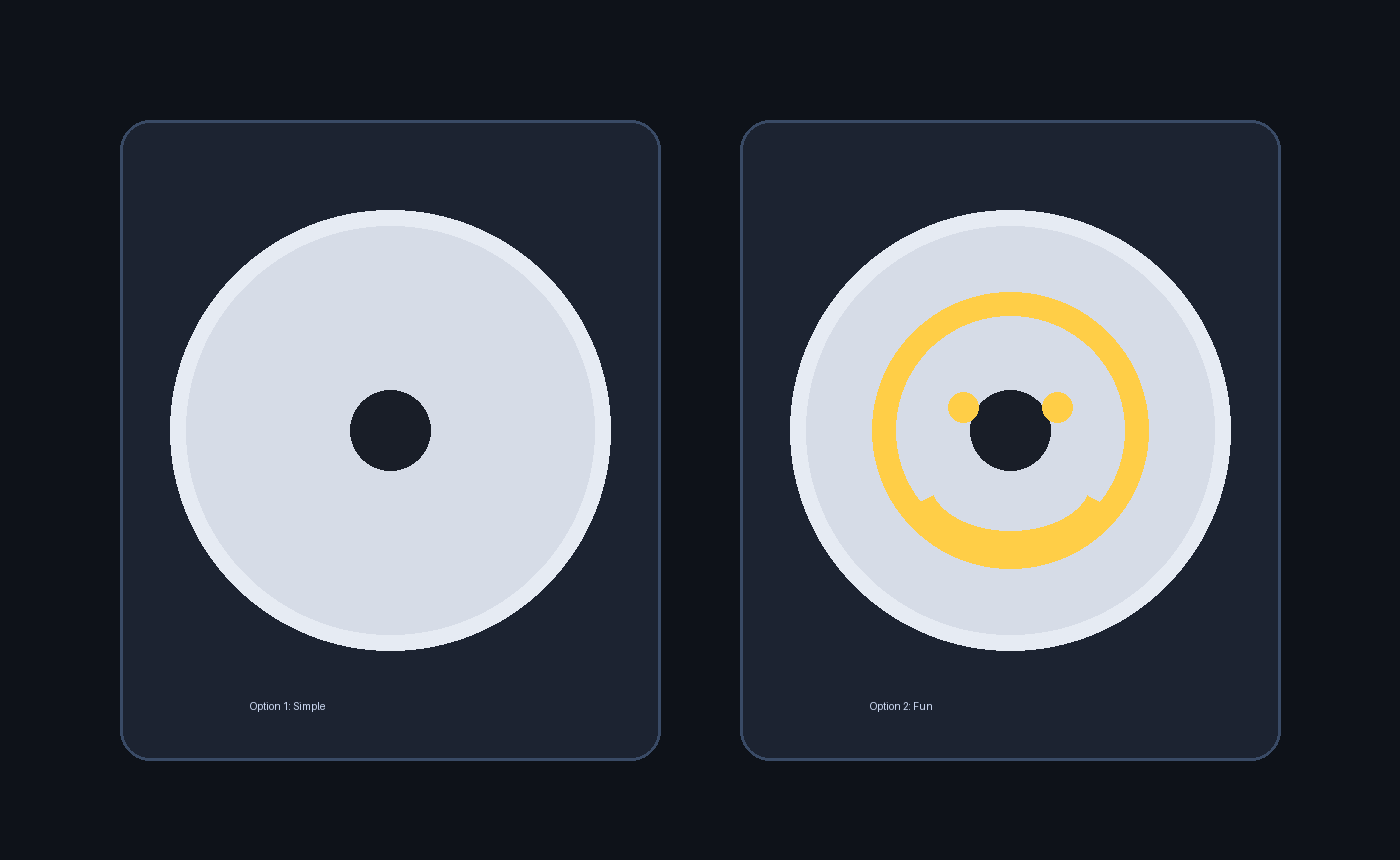
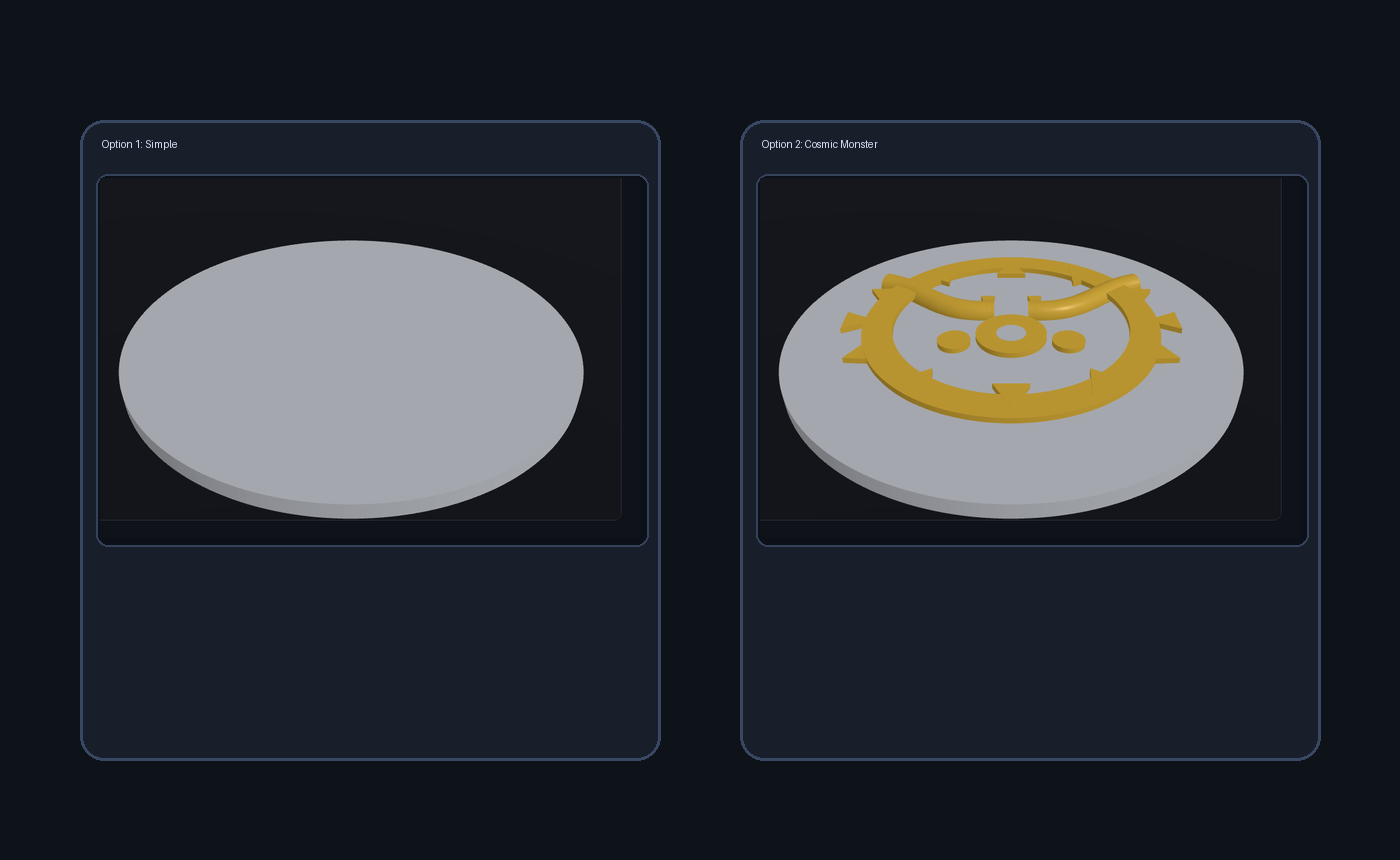
Upgrade fun ceiling cover to cosmic monster concept

diff --git a/web/ceiling-socket-cover-viewer/index.html b/web/ceiling-socket-cover-viewer/index.html
@@ -26,14 +26,14 @@
   <div class="wrap">
     <div class="panel">
       <h1 style="margin:0 0 4px; font-size:1.2rem;">Ceiling Socket Cover Viewer</h1>
-      <div class="muted">Live 3D preview for simple and fun cover styles.</div>
+      <div class="muted">Live 3D preview for simple and out-of-the-ordinary cosmic styles.</div>
       <div class="muted" style="margin-top:-4px"><a href="../../index.html" style="color:#9fc0ff">← Back to project index</a></div>
 
       <div class="row">
         <label>Style <span id="style_v"></span></label>
         <select id="style">
           <option value="simple">Simple</option>
-          <option value="fun">Fun (smiley)</option>
+          <option value="fun">Fun (cosmic monster)</option>
         </select>
       </div>
 
@@ -175,20 +175,21 @@
       const shape = makeCoverShape(outerR, p.centerHole, p.wire / 2);
       const plateGeo = new THREE.ExtrudeGeometry(shape, { depth: p.thickness, steps: 1, bevelEnabled: false, curveSegments: 128 });
       plateGeo.rotateX(-Math.PI / 2);
-      plateGeo.translate(0, p.thickness, 0);
+      // keep cover seated on ground plane (top at ~thickness)
+      plateGeo.translate(0, 0, 0);
       group.add(new THREE.Mesh(plateGeo, coverMat));
 
       return { group, coverD };
     }
 
-    function addFunSmiley(group, p, coverD) {
+    function addFunCosmicMonster(group, p, coverD) {
       const z = p.thickness - 0.02;
-      const faceD = coverD * 0.62;
-      const faceR = faceD / 2;
-      const ringOuter = faceR;
-      const ringInner = faceR * 0.86;
-      const ringH = 0.8;
+      const faceD = coverD * 0.66;
+      const ringOuter = faceD * 0.50;
+      const ringInner = faceD * 0.40;
+      const ringH = 0.9;
 
+      // jagged portal ring
       const ringShape = new THREE.Shape();
       ringShape.absarc(0, 0, ringOuter, 0, Math.PI * 2, false);
       const ringHole = new THREE.Path();
@@ -199,20 +200,76 @@
       ringGeo.translate(0, ringH + z, 0);
       group.add(new THREE.Mesh(ringGeo, accentMat));
 
-      const eyeR = faceD * 0.045;
-      const eyeY = faceD * 0.12;
-      const eyeX = faceD * 0.18;
-      const eyeGeo = new THREE.CylinderGeometry(eyeR, eyeR, ringH, 80);
-      const eyeL = new THREE.Mesh(eyeGeo, accentMat);
-      eyeL.position.set(-eyeX, z + ringH / 2, eyeY);
-      const eyeRMesh = new THREE.Mesh(eyeGeo.clone(), accentMat);
-      eyeRMesh.position.set(eyeX, z + ringH / 2, eyeY);
-      group.add(eyeL, eyeRMesh);
+      const spikeLen = faceD * 0.11;
+      const spikeW = faceD * 0.11;
+      const spikeShape = new THREE.Shape();
+      spikeShape.moveTo(0, 0);
+      spikeShape.lineTo(spikeLen, spikeW * 0.5);
+      spikeShape.lineTo(spikeLen, -spikeW * 0.5);
+      spikeShape.lineTo(0, 0);
+      const spikeGeo2D = new THREE.ExtrudeGeometry(spikeShape, { depth: ringH, steps: 1, bevelEnabled: false, curveSegments: 8 });
+      spikeGeo2D.rotateX(-Math.PI / 2);
+      for (let a = 0; a < 360; a += 30) {
+        const g = spikeGeo2D.clone();
+        const m = new THREE.Matrix4();
+        m.makeRotationY(THREE.MathUtils.degToRad(a));
+        g.applyMatrix4(m);
+        const x = Math.cos(THREE.MathUtils.degToRad(a)) * ringOuter * 0.92;
+        const zPos = Math.sin(THREE.MathUtils.degToRad(a)) * ringOuter * 0.92;
+        g.translate(x, ringH + z, zPos);
+        group.add(new THREE.Mesh(g, accentMat));
+      }
 
-      const smileCurve = new THREE.EllipseCurve(0, -faceD*0.02, faceD*0.22, faceD*0.16, Math.PI*0.12, Math.PI*0.88, false, 0);
-      const smilePts = smileCurve.getPoints(72).map(p2 => new THREE.Vector3(p2.x, z + ringH/2, p2.y));
-      const smileGeo = new THREE.TubeGeometry(new THREE.CatmullRomCurve3(smilePts), 72, faceD*0.022, 18, false);
-      group.add(new THREE.Mesh(smileGeo, accentMat));
+      // central eye + side eyes + pupil
+      const eyeGeo = new THREE.CylinderGeometry(faceD * 0.12, faceD * 0.12, ringH, 80);
+      const eye = new THREE.Mesh(eyeGeo, accentMat);
+      eye.position.set(0, z + ringH / 2, faceD * 0.05);
+      group.add(eye);
+
+      const sideEyeGeo = new THREE.CylinderGeometry(faceD * 0.055, faceD * 0.055, ringH, 60);
+      const eyeL = new THREE.Mesh(sideEyeGeo, accentMat);
+      eyeL.position.set(-faceD * 0.19, z + ringH / 2, faceD * 0.09);
+      const eyeR = new THREE.Mesh(sideEyeGeo.clone(), accentMat);
+      eyeR.position.set(faceD * 0.19, z + ringH / 2, faceD * 0.09);
+      group.add(eyeL, eyeR);
+
+      const pupilGeo = new THREE.CylinderGeometry(faceD * 0.05, faceD * 0.05, ringH * 0.90, 60);
+      const pupil = new THREE.Mesh(pupilGeo, coverMat);
+      pupil.position.set(0, z + ringH * 0.57, faceD * 0.05);
+      group.add(pupil);
+
+      // fangs
+      const fangShape = new THREE.Shape();
+      fangShape.moveTo(0, 0);
+      fangShape.lineTo(faceD * 0.05, 0);
+      fangShape.lineTo(faceD * 0.025, -faceD * 0.10);
+      fangShape.lineTo(0, 0);
+      const fangGeo = new THREE.ExtrudeGeometry(fangShape, { depth: ringH, steps: 1, bevelEnabled: false, curveSegments: 6 });
+      fangGeo.rotateX(-Math.PI / 2);
+      const fangL = new THREE.Mesh(fangGeo.clone(), accentMat);
+      fangL.position.set(-faceD * 0.11, z + ringH, -faceD * 0.17);
+      const fangR = new THREE.Mesh(fangGeo.clone(), accentMat);
+      fangR.position.set(faceD * 0.06, z + ringH, -faceD * 0.17);
+      group.add(fangL, fangR);
+
+      // mirrored tentacles (tube curves)
+      const tPts = [];
+      for (let i = 0; i <= 7; i += 1) {
+        tPts.push(new THREE.Vector3(
+          faceD * (0.06 + i * 0.06),
+          z + ringH * 0.52,
+          -faceD * (0.10 + i * 0.025) + faceD * 0.04 * Math.sin(THREE.MathUtils.degToRad(i * 40))
+        ));
+      }
+      const tubeR = faceD * 0.042;
+      const curveR = new THREE.CatmullRomCurve3(tPts);
+      const geoR = new THREE.TubeGeometry(curveR, 72, tubeR, 18, false);
+      group.add(new THREE.Mesh(geoR, accentMat));
+
+      const tPtsL = tPts.map((v) => new THREE.Vector3(-v.x, v.y, v.z));
+      const curveL = new THREE.CatmullRomCurve3(tPtsL);
+      const geoL = new THREE.TubeGeometry(curveL, 72, tubeR, 18, false);
+      group.add(new THREE.Mesh(geoL, accentMat));
     }
 
     function rebuild() {
@@ -227,7 +284,7 @@
       const { group, coverD } = buildBase(p);
       coverGroup.add(...group.children);
 
-      if (p.style === 'fun') addFunSmiley(coverGroup, p, coverD);
+      if (p.style === 'fun') addFunCosmicMonster(coverGroup, p, coverD);
     }
 
     function resize() {

diff --git a/models/ceiling-socket-cover/README.md b/models/ceiling-socket-cover/README.md
@@ -5,7 +5,7 @@ Reusable OpenSCAD cover to hide a ceiling socket hole.
 ## Includes
 
 - `style="simple"`: clean plain cover
-- `style="fun"`: smiley relief cover (for lols)
+- `style="fun"`: cosmic monster relief cover (out-of-the-ordinary)
 
 ## File
 
